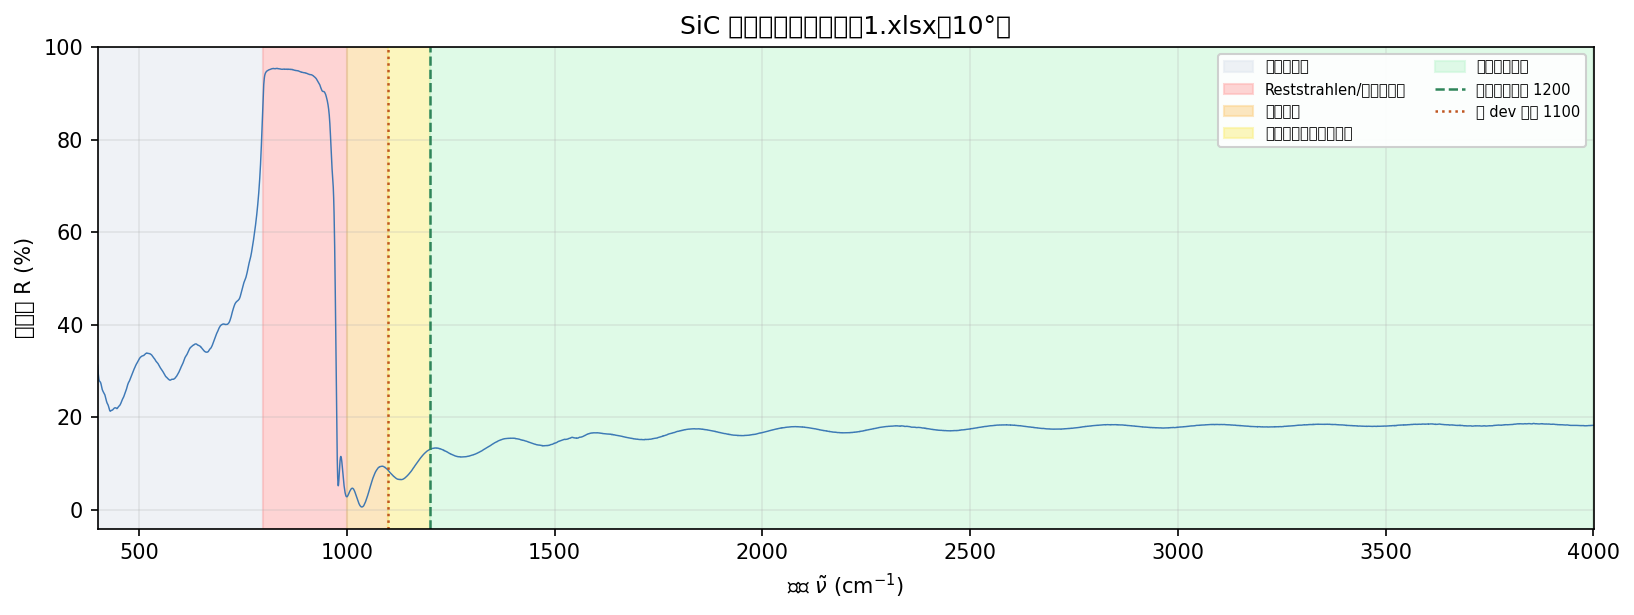
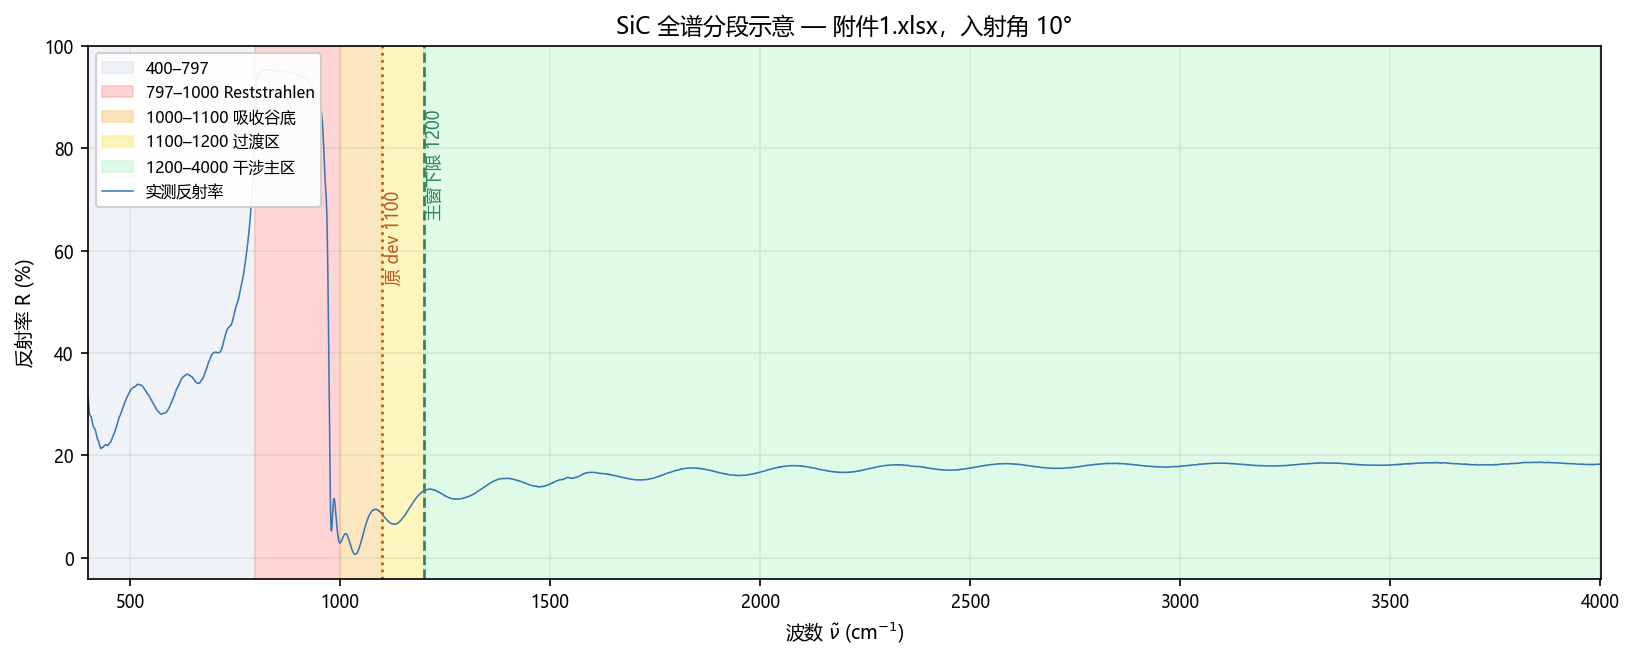
111

Changed region(s): [[0.0312, 0.0, 0.9988, 0.9886], [0.0, 0.3398, 0.0624, 0.5561], [0.0312, 0.5561, 0.1248, 0.7106]]

diff --git a/src/Candidate window/band_analysis.py b/src/Candidate window/band_analysis.py
@@ -22,6 +22,25 @@ from data_io import load_spectrum  # noqa: E402
 
 OUTPUT_DIR.mkdir(parents=True, exist_ok=True)
 
+
+def _apply_plot_style() -> None:
+    try:
+        plt.style.use("tableau-colorblind10")
+    except OSError:
+        plt.style.use("default")
+    plt.rcParams.update(
+        {
+            "font.sans-serif": ["Microsoft YaHei", "SimHei", "DejaVu Sans"],
+            "axes.unicode_minus": False,
+            "axes.titlesize": 11,
+            "axes.labelsize": 9,
+            "legend.fontsize": 8,
+            "xtick.labelsize": 8,
+            "ytick.labelsize": 8,
+        }
+    )
+
+
 # 物理分段（用于说明，非程序自动检测 Reststrahlen 的阈值）
 SIC_SPECTRAL_REGIONS = (
     ("400-797", 400.0, 797.0, "普通反射区"),
@@ -154,24 +173,65 @@ def fringe_segment_table(dataset_key: str) -> pd.DataFrame:
 
 
 def plot_sic_regions(dataset_key: str = "sic_10") -> Path:
+    _apply_plot_style()
     spec = next(item for item in DATASETS if item.key == dataset_key)
     spectrum = load_spectrum(DATA_DIR, spec)
     nu, R = spectrum.wavenumber_cm1, spectrum.reflectance_pct
 
-    fig, ax = plt.subplots(figsize=(11, 4.2), dpi=150)
-    for label, lo, hi, role in SIC_SPECTRAL_REGIONS:
+    fig, ax = plt.subplots(figsize=(11, 4.5), dpi=150)
+    # 图例只保留分段色块，避免与参考线条目挤在一起
+    legend_labels = {
+        "797-1000": "797–1000 Reststrahlen",
+        "1000-1100": "1000–1100 吸收谷底",
+        "1100-1200": "1100–1200 过渡区",
+        "1200-4000": "1200–4000 干涉主区",
+        "400-797": "400–797",
+    }
+    for label, lo, hi, _role in SIC_SPECTRAL_REGIONS:
         if label == "1100-4000":
             continue
-        ax.axvspan(lo, hi, color=REGION_COLORS.get(label, "#EDF2F7"), alpha=0.55, label=role)
-    ax.plot(nu, R, color="#2B6CB0", lw=0.7, alpha=0.9)
-    ax.axvline(1200, color="#2F855A", ls="--", lw=1.2, label="当前主窗下限 1200")
-    ax.axvline(1100, color="#C05621", ls=":", lw=1.2, label="原 dev 下限 1100")
+        ax.axvspan(
+            lo,
+            hi,
+            color=REGION_COLORS.get(label, "#EDF2F7"),
+            alpha=0.55,
+            label=legend_labels.get(label, label),
+        )
+    ax.plot(nu, R, color="#2B6CB0", lw=0.75, alpha=0.92, label="实测反射率")
+
+    y_top = float(np.max(R))
+    y_annot = y_top * 0.92
+    ax.axvline(1200, color="#2F855A", ls="--", lw=1.3)
+    ax.axvline(1100, color="#C05621", ls=":", lw=1.3)
+    ax.text(
+        1205,
+        y_annot,
+        "主窗下限 1200",
+        color="#2F855A",
+        fontsize=8,
+        rotation=90,
+        va="top",
+        ha="left",
+    )
+    ax.text(
+        1105,
+        y_annot * 0.82,
+        "原 dev 1100",
+        color="#C05621",
+        fontsize=8,
+        rotation=90,
+        va="top",
+        ha="left",
+    )
+
     ax.set_xlim(nu.min(), nu.max())
     ax.set_xlabel(r"波数 $\tilde{\nu}$ (cm$^{-1}$)")
     ax.set_ylabel("反射率 R (%)")
-    ax.set_title(f"SiC 全谱分段示意（{spec.filename}，{spec.angle_deg:.0f}°）")
+    ax.set_title(
+        f"SiC 全谱分段示意 — {spec.filename}，入射角 {spec.angle_deg:.0f}°"
+    )
     ax.grid(True, alpha=0.25)
-    ax.legend(loc="upper right", fontsize=7, framealpha=0.92, ncol=2)
+    ax.legend(loc="upper left", fontsize=7.5, framealpha=0.92, ncol=1)
     fig.tight_layout()
     path = OUTPUT_DIR / f"{dataset_key}_spectrum_regions.png"
     fig.savefig(path, bbox_inches="tight", facecolor="white")
